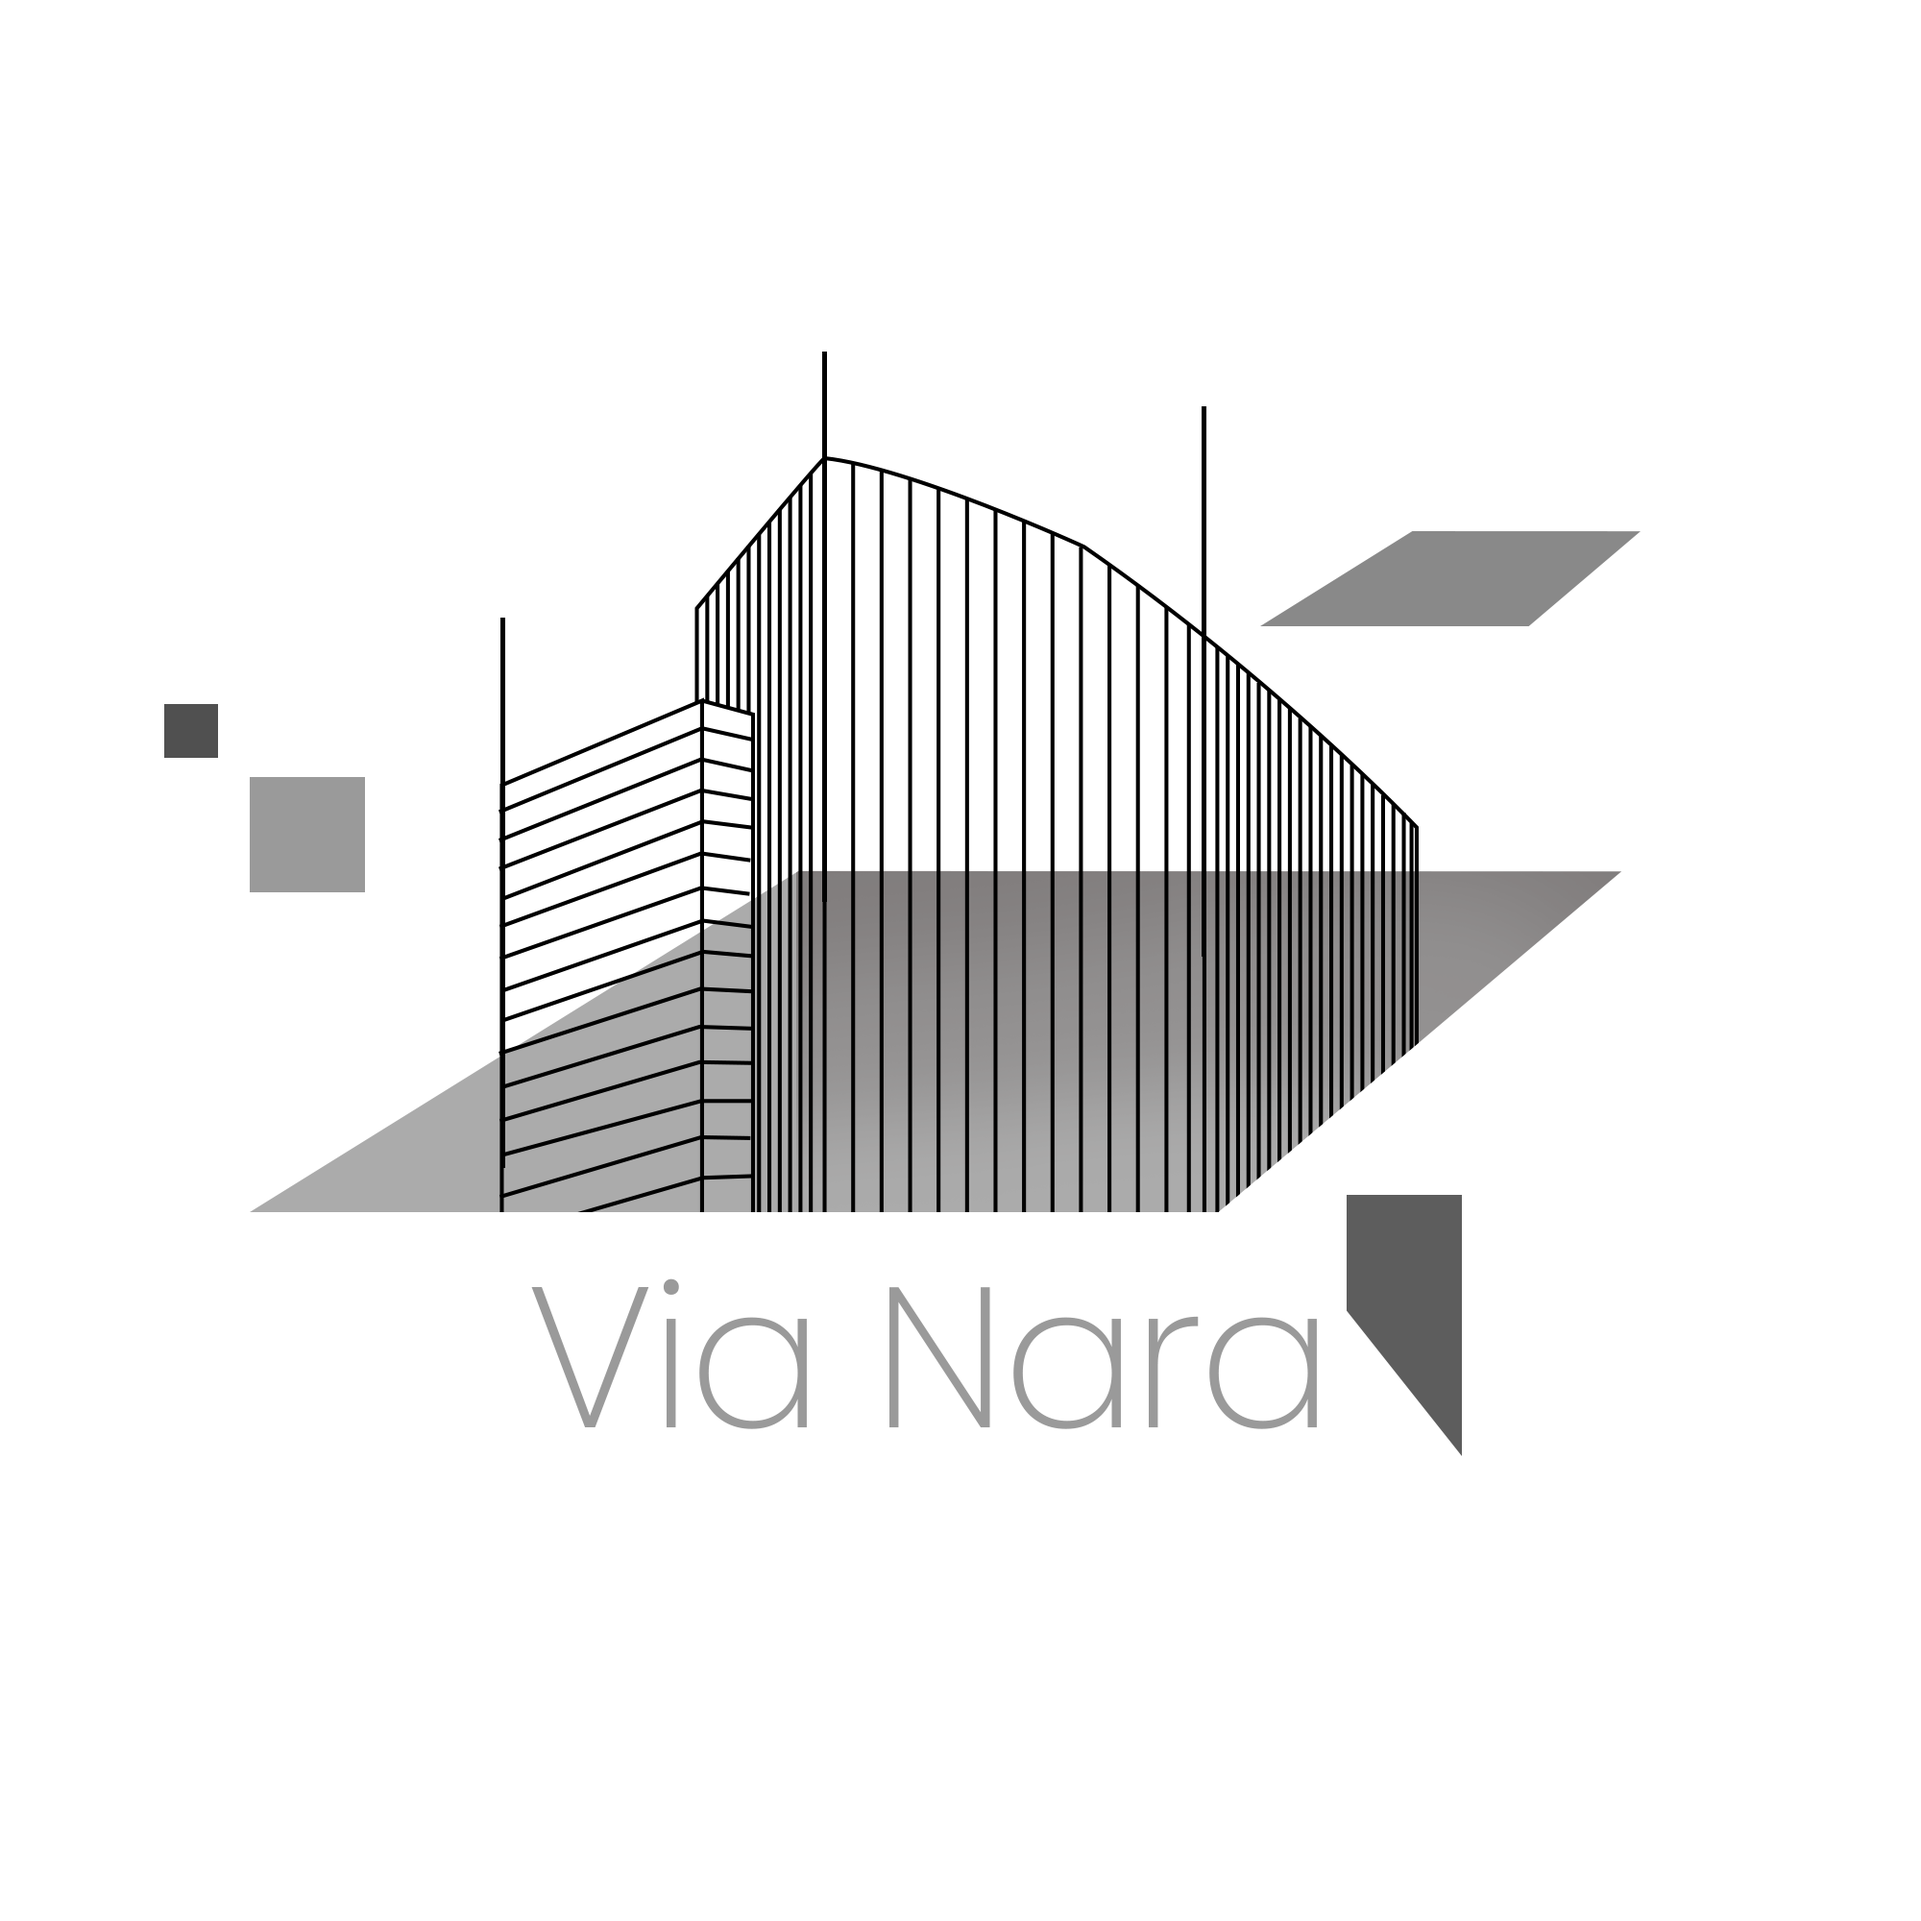
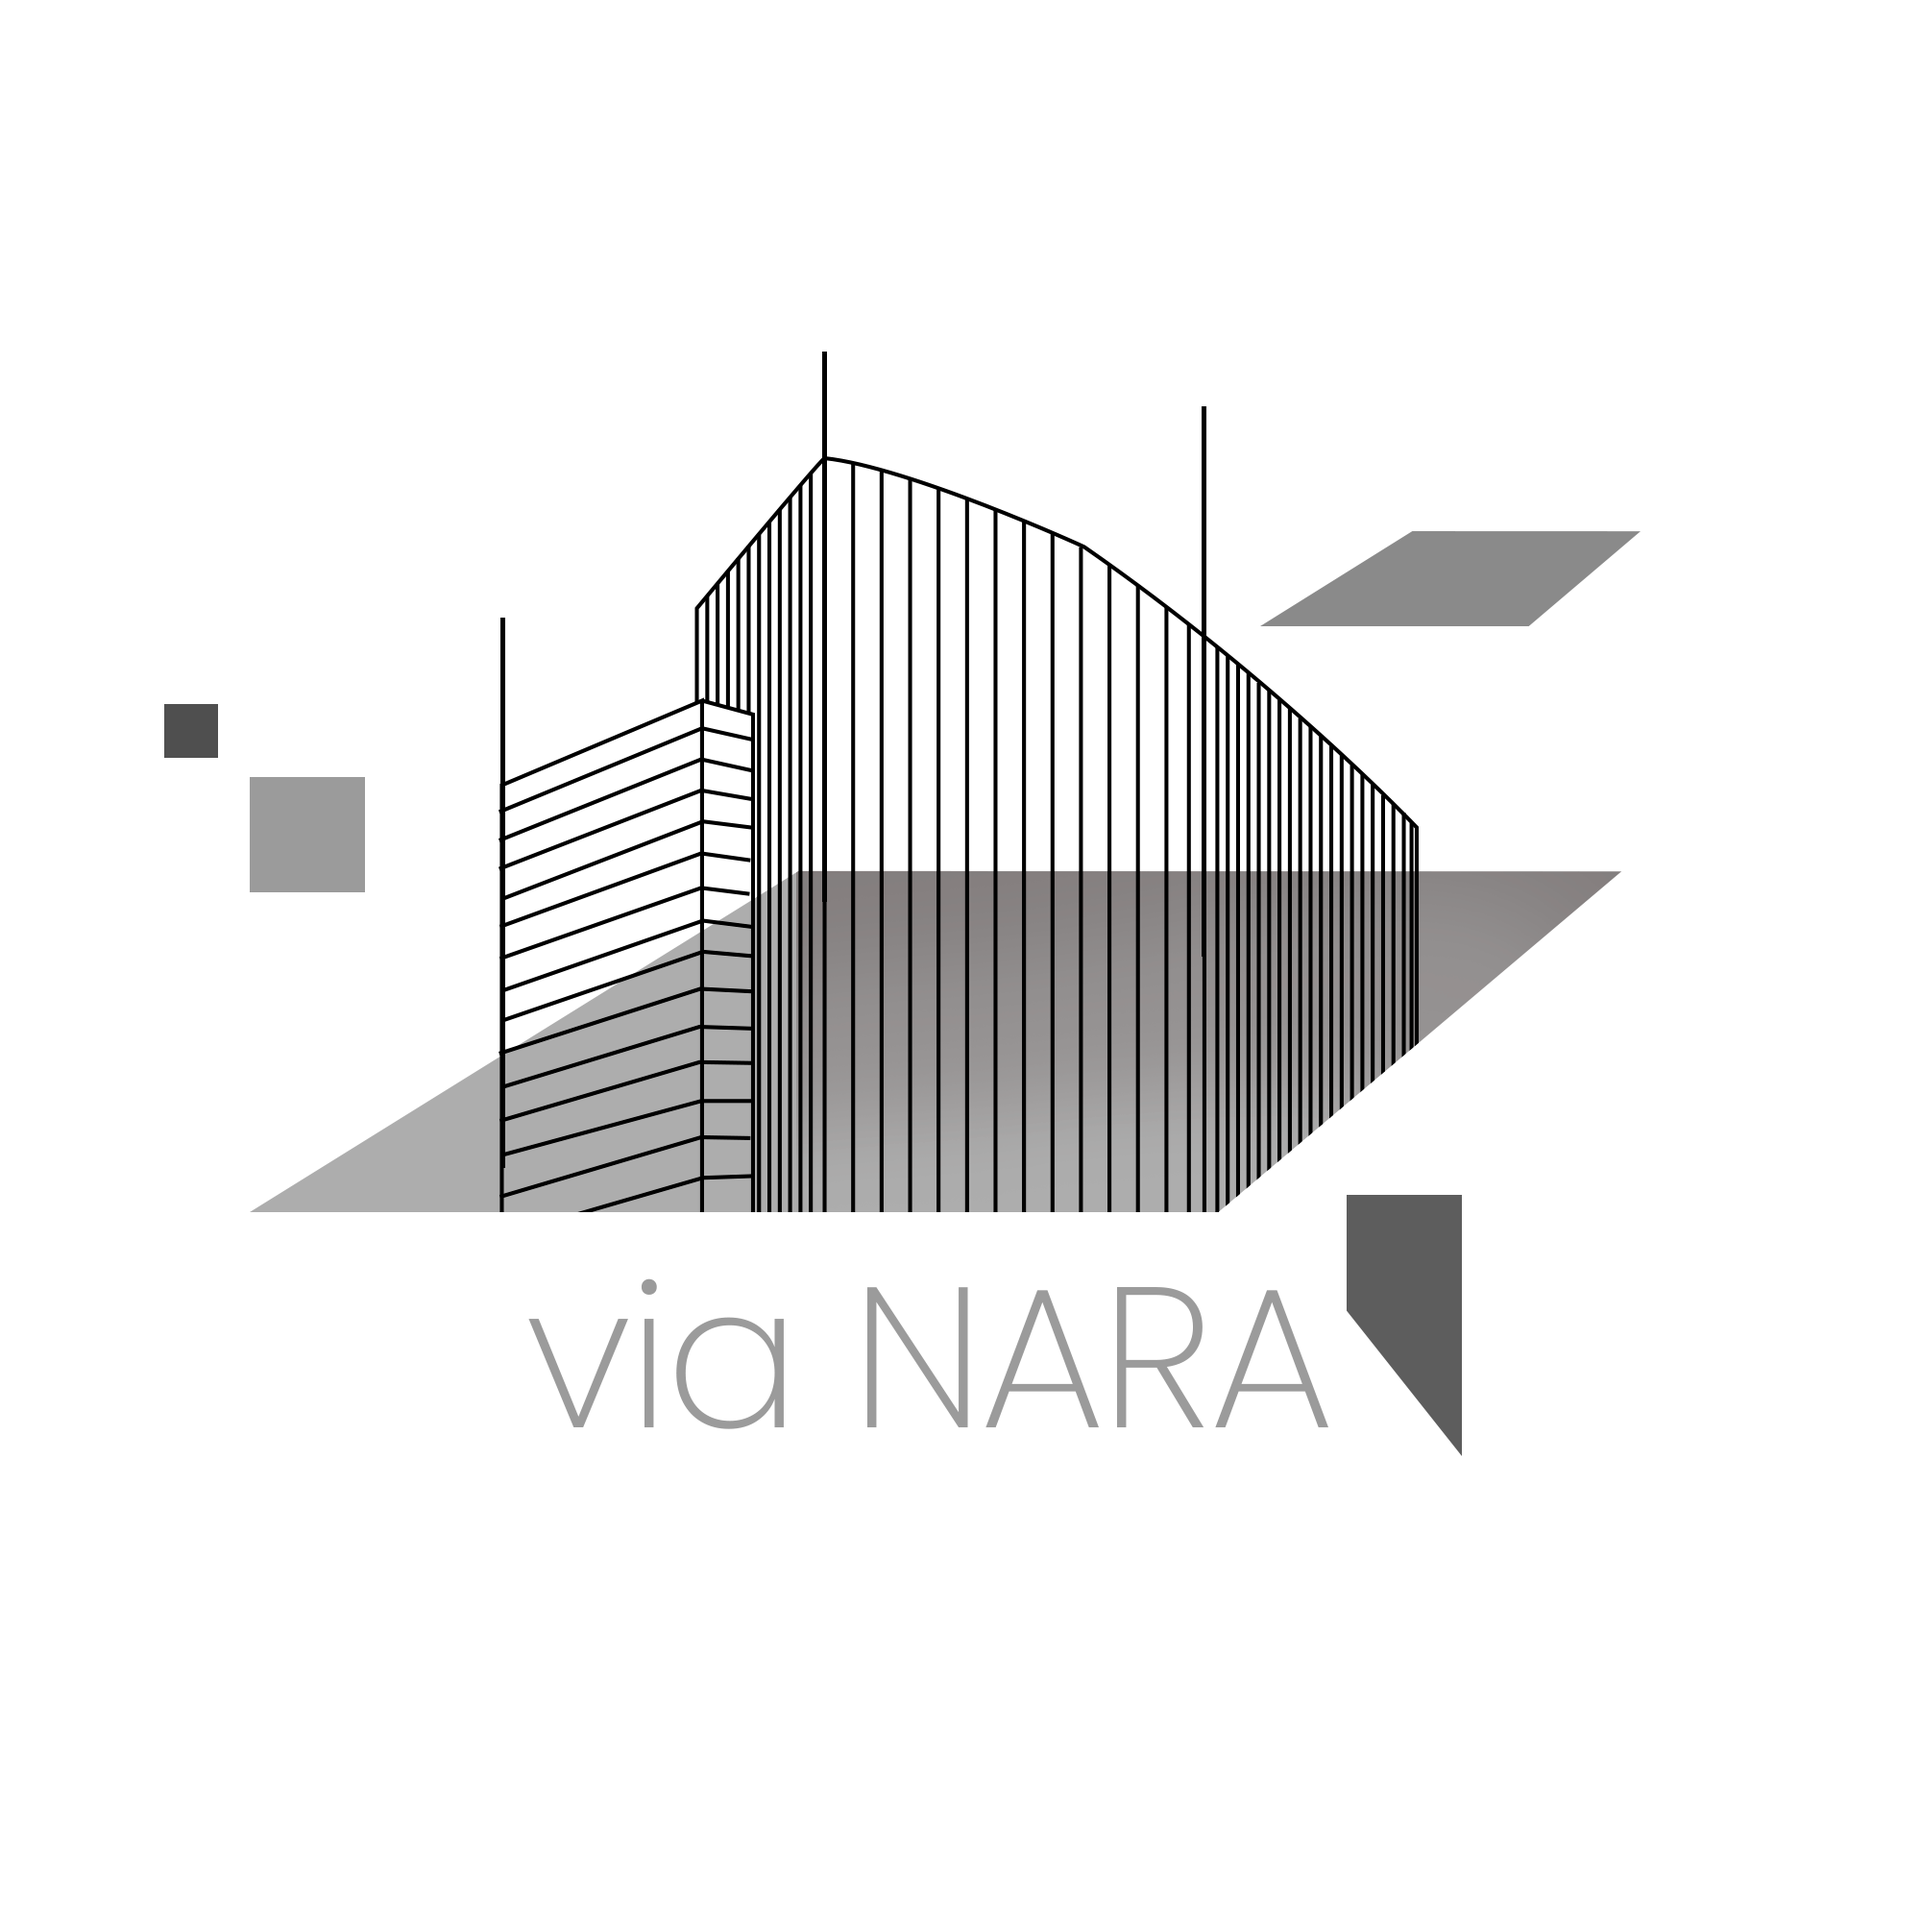
change 2 more name

Changed region(s): [[0.279, 0.651, 0.713, 0.744]]

diff --git a/about-us.html b/about-us.html
@@ -273,7 +273,7 @@
                     <div class="col-lg-12 col-md-12 text-center theratio-align-center">
                         <div class="ot-heading is-dots">
                             <span>[ interior design ]</span>
-                            <h2 class="main-heading">Creating Spaces with Via NARA</h2>
+                            <h2 class="main-heading">Creating Spaces with via NARA</h2>
                         </div>
                     </div>
                 </div>
